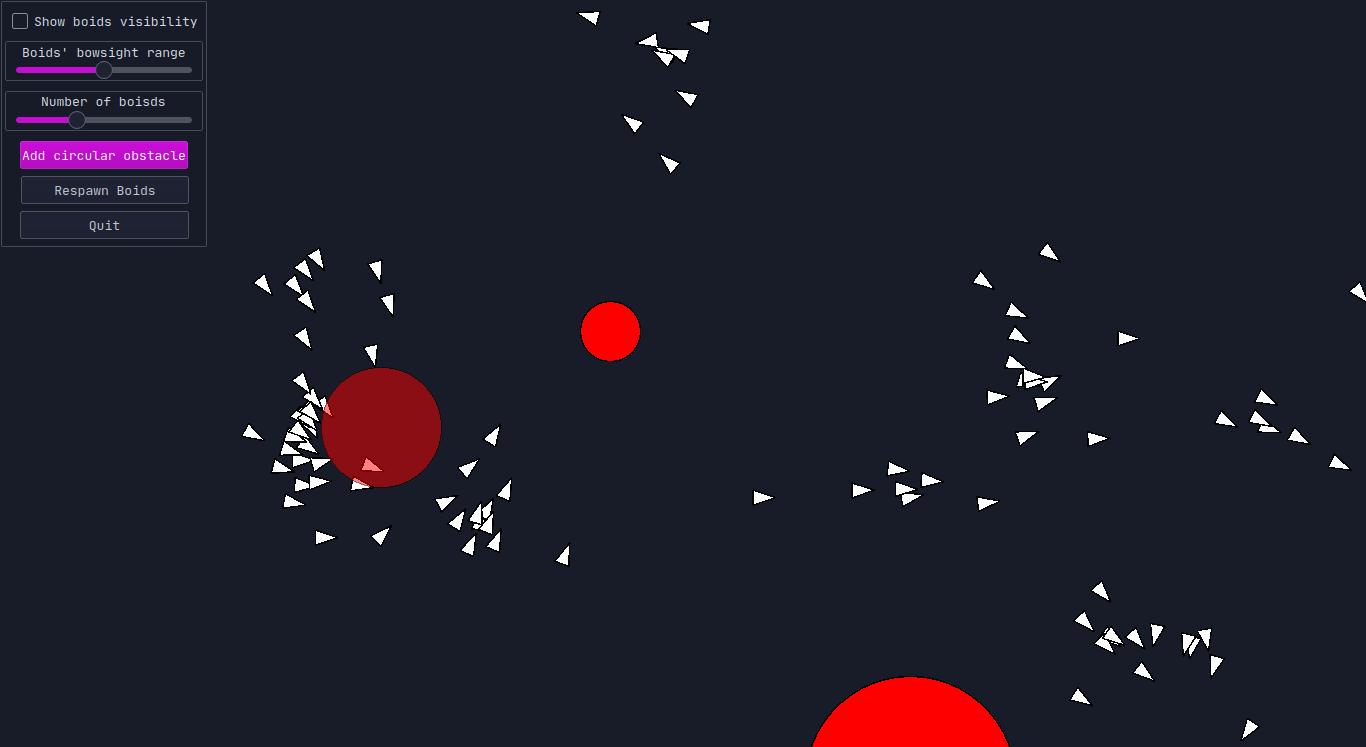
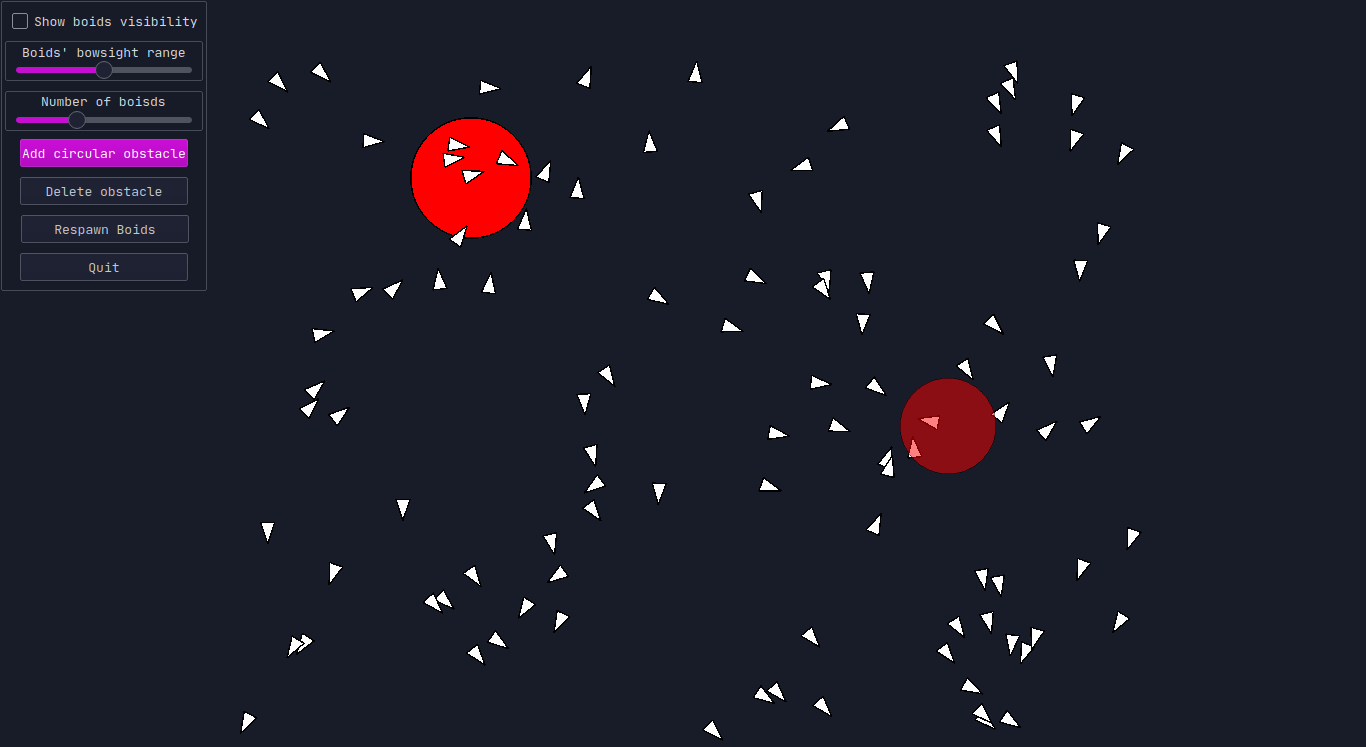
deleting obstacles, update screenshots

diff --git a/src/frame.cpp b/src/frame.cpp
@@ -71,17 +71,32 @@ void Frame::mouseReleaseEvent(QMouseEvent *event)
 
     if (event->button() == Qt::LeftButton)
     {
-        if (mode == Mode::ChangeCicrleCenter)
+        switch (mode)
         {
-            new_circle_center = onMap(event->pos());
-            setMode(Mode::ChangeCircleRadius);
-        }
 
-        else if (mode == Mode::ChangeCircleRadius)
-        {
-            circles.push_back(Circle(new_circle_center, sqrt(squeresSum(new_circle_center
-                                     - onMap(event->pos())))));
-            setMode(Mode::Boids);
+            case (Mode::ChangeCicrleCenter):
+
+                new_circle_center = onMap(event->pos());
+                setMode(Mode::ChangeCircleRadius);
+                break;
+
+            case (Mode::ChangeCircleRadius):
+                circles.push_back(Circle(new_circle_center, sqrt(squeresSum(new_circle_center
+                                         - onMap(event->pos())))));
+                setMode(Mode::ChangeCicrleCenter);
+                break;
+
+            case (Mode::DeleteCircle):
+                for (int i = circles.size() - 1; i >= 0; i--)
+                {
+                    if (circles[i].contains(onMap(event->pos())))
+                    {
+                        circles.erase(circles.begin() + i);
+                        break;
+                    }
+                }
+
+                break;
         }
     }
 }
@@ -94,15 +109,36 @@ void Frame::wheelEvent(QWheelEvent *event)
 void Frame::paintEvent(QPaintEvent *_)
 {
     QPainter *painter = new QPainter(this);
+    QPoint cursor_pos = cursor().pos() - geometry().topLeft();
     painter->setPen(Qt::black);
     painter->save();
     painter->scale(scale, scale);
     painter->translate(translate + QPoint(width(), height()) / (2 * scale));
     painter->setBrush(Qt::red);
 
-    for (Circle circle : circles)
+    if (mode != Mode::DeleteCircle)
     {
-        painter->drawEllipse(circle.center(), circle.radius(), circle.radius());
+        for (Circle circle : circles)
+        {
+            painter->drawEllipse(circle.center(), circle.radius(), circle.radius());
+        }
+    }
+    else
+    {
+        for (Circle circle : circles)
+        {
+            if (circle.contains(onMap(QPointF(cursor_pos.x(), cursor_pos.y()))))
+            {
+                painter->setOpacity(0.5);
+                painter->drawEllipse(circle.center(), circle.radius(), circle.radius());
+                painter->setOpacity(1.0);
+            }
+            else
+            {
+                painter->drawEllipse(circle.center(), circle.radius(), circle.radius());
+
+            }
+        }
     }
 
     if (settings->showBoidsView())
@@ -131,12 +167,11 @@ void Frame::paintEvent(QPaintEvent *_)
     switch (mode)
     {
         case (Mode::ChangeCicrleCenter):
-            painter->drawEllipse(cursor().pos() - geometry().topLeft(), 40 * scale, 40 * scale);
+            painter->drawEllipse(cursor_pos, 40 * scale, 40 * scale);
             break;
 
         case (Mode::ChangeCircleRadius):
-            double radius = scale * sqrt(squeresSum(new_circle_center
-                                                    - onMap(cursor().pos() - geometry().topLeft())));
+            double radius = scale * sqrt(squeresSum(new_circle_center - onMap(cursor_pos)));
             painter->drawEllipse(scale * (new_circle_center
                                           + translate
                                           + QPoint(width(), height()) / (2 * scale)),
@@ -193,14 +228,19 @@ void Frame::updateBoidsNumber()
 
 }
 
-void Frame::startAddCircle()
+void Frame::addCircle()
 {
     setMode(Mode::ChangeCicrleCenter);
 }
 
+void Frame::deleteCircle()
+{
+    setMode(Mode::DeleteCircle);
+}
+
 void Frame::changeScale()
 {
-    if (abs(not_scaled) > 0.2)
+    if (abs(not_scaled) > 0.1)
     {
         scale += not_scaled / 5;
         not_scaled -= not_scaled / 5;

diff --git a/src/frame.hpp b/src/frame.hpp
@@ -19,7 +19,8 @@ public:
     {
         Boids,
         ChangeCicrleCenter,
-        ChangeCircleRadius
+        ChangeCircleRadius,
+        DeleteCircle
     };
     int boidsNumber();
     void keyReleaseEvent(QKeyEvent *event);
@@ -34,7 +35,8 @@ public slots:
     void reloadBoids();
     void updateBoidsRadius();
     void updateBoidsNumber();
-    void startAddCircle();
+    void addCircle();
+    void deleteCircle();
     void changeScale();
 
 private:
@@ -43,11 +45,7 @@ private:
     void setMode(Mode mode);
 
     std::vector<Boid *> boids = std::vector<Boid *>(100);
-    std::vector<Circle> circles =
-    {
-        Circle(QPointF(), 20.0),
-        Circle(QPointF(200.0, 300.0), 70.0)
-    };
+    std::vector<Circle> circles = {};
     QPoint translate, last_pos;
     double scale = 1.0, not_scaled = 0.0;
     Qt::MouseButton last_button = Qt::NoButton;

diff --git a/src/settingsbox.cpp b/src/settingsbox.cpp
@@ -8,7 +8,8 @@ SettingsBox::SettingsBox(Frame *parent) : QGroupBox(parent)
     boids_number_slider->setSliderPosition(parent->boidsNumber());
     connect(radius_slider, SIGNAL(valueChanged(int)), parent, SLOT(updateBoidsRadius()));
     connect(boids_number_slider, SIGNAL(valueChanged(int)), parent, SLOT(updateBoidsNumber()));
-    connect(add_circle_button, SIGNAL(released()), parent, SLOT(startAddCircle()));
+    connect(add_circle_button, SIGNAL(released()), parent, SLOT(addCircle()));
+    connect(delete_obstacle_button, SIGNAL(released()), parent, SLOT(deleteCircle()));
     connect(reload_button, SIGNAL(released()), parent, SLOT(reloadBoids()));
     connect(quit_button, SIGNAL(released()), parent, SLOT(close()));
 }

diff --git a/src/circle.cpp b/src/circle.cpp
@@ -1,22 +1,14 @@
 #include "circle.hpp"
 
+double squeresSum(QPointF point)
+{
+    return point.x() * point.x() + point.y() * point.y();
+}
+
 Circle::Circle(QPointF center, double radius)
 {
-    setRadius(radius);
-    setCenter(center);
-}
-
-void Circle::setRadius(double radius)
-{
-    if (radius >= 0)
-    {
-        radius_ = radius;
-    }
-}
-
-void Circle::setCenter(QPointF center)
-{
     center_ = center;
+    radius_ = radius;
 }
 
 QPointF Circle::center()
@@ -27,4 +19,9 @@ QPointF Circle::center()
 double Circle::radius()
 {
     return radius_;
+}
+
+bool Circle::contains(QPointF point)
+{
+    return squeresSum(point - center_) <= radius_ * radius_;
 }

diff --git a/src/circle.hpp b/src/circle.hpp
@@ -2,15 +2,15 @@
 
 #include <QPointF>
 
+double squeresSum(QPointF point);
 
 class Circle
 {
 public:
     Circle(QPointF center, double radius);
-    void setRadius(double radius);
-    void setCenter(QPointF center);
     QPointF center();
     double radius();
+    bool contains(QPointF point);
 
 private:
     QPointF center_;

diff --git a/src/boid.cpp b/src/boid.cpp
@@ -11,11 +11,6 @@ double frandom()
     return (double)rand() / RAND_MAX;
 }
 
-double squeresSum(QPointF point)
-{
-    return point.x() * point.x() + point.y() * point.y();
-}
-
 double Boid::view_radius = 70.0;
 
 Boid::Boid(QRect rect)

diff --git a/src/boid.hpp b/src/boid.hpp
@@ -8,7 +8,6 @@ class QRect;
 class QPainter;
 
 double frandom();
-double squeresSum(QPointF point);
 
 class Boid
 {
